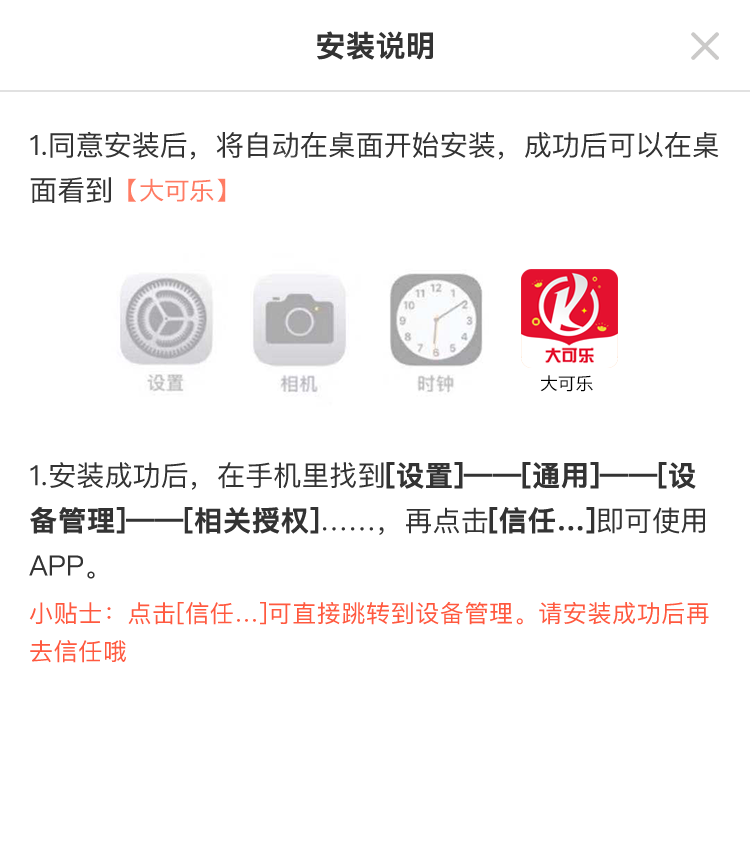
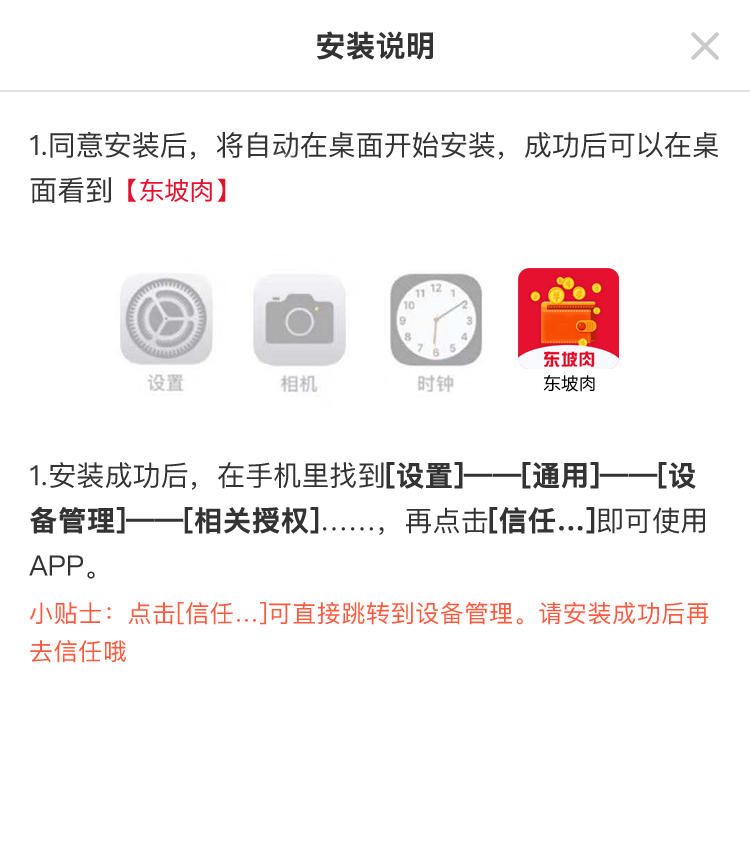
东坡肉

Changed region(s): [[0.6747, 0.3034, 0.828, 0.4551], [0.1533, 0.2124, 0.3067, 0.2427]]

diff --git a/src/pages/memb/info.vue b/src/pages/memb/info.vue
@@ -13,28 +13,28 @@
     <div class="content">
       <div class="information"  @click="card">
         <div class="icon">
-          <img src="./img/my-icon3.png" alt="" >
+          <img src="./img/icon1.png" alt="" >
         </div>
         <span class="title">实名认证</span>
         <span class="text" :class="{'cur':list.idCard==3}" v-html="list.idCard==3?'认证成功':list.idCard==2?'认证中':list.idCard==4&&list.idCardFail==1?'认证失败(身份证已被认证)':list.idCard==4?'认证失败':'未认证'"></span>
       </div>
       <div class="information" @click="base">
         <div class="icon">
-          <img src="./img/my-icon2.png" alt="" >
+          <img src="./img/icon2.png" alt="" >
         </div>
         <span class="title">基础信息</span>
         <span class="text" :class="{'cur':list.baseInfo==3}" v-html="list.baseInfo==4&&list.idCardFail==1?'认证失败':list.baseInfo==3?'认证成功':list.baseInfo==2?'认证中':'未认证'"></span>
       </div>
       <div class="information" @click="linkman">
         <div class="icon phone">
-          <img src="./img/my-icon4.png" alt="" >
+          <img src="./img/icon3.png" alt="" >
         </div>
         <span class="title">联系人认证</span>
         <span class="text" :class="{'cur':list.contact==3}" v-html="list.contact==4?'认证失败()':list.contact==3?'认证成功':list.contact==2?'认证中':'未认证'"></span>
       </div>
       <div class="information" @click="bank">
         <div class="icon">
-          <img src="./img/my-icon5.png" alt="">
+          <img src="./img/icon4.png" alt="">
         </div>
         <span class="title">银行卡认证</span>
         <span class="text" :class="{'cur':list.bank==3}" v-html="list.bank==4?'认证失败':list.bank==3?'认证成功':list.bank==2?'认证中':'未认证'"></span>
@@ -42,7 +42,7 @@
 
       <div class="information" @click="mobile1">
         <div class="icon">
-          <img src="./img/my-icon1.png" alt="" >
+          <img src="./img/icon5.png" alt="" >
         </div>
         <span class="title">手机认证</span>
         <span class="text" :class="{'cur':list.mobOperator==3}" v-html="list.mobOperator==4?'认证失败':list.mobOperator==3?'认证成功':(list.mobOperator==2 || authing == 1)?'认证中':'未认证'"></span>
@@ -407,8 +407,8 @@
 <style lang="scss" scoped>
   .headerBar{
     width: 100%;
-    background: url("./img/headerBar-bg.png") no-repeat;
-    height:Px(406);
+    background: url("./img/bg.png") no-repeat;
+    height:Px(397);
     background-size: 100%;
   }
   .box{
@@ -503,7 +503,7 @@
           display: block;
           margin: auto;
           width: auto;
-          width: Px(52);
+          width: Px(47);
         }
       }
       .phone{

diff --git a/src/pages/simple/landpage/index.vue b/src/pages/simple/landpage/index.vue
@@ -48,7 +48,7 @@
         <span class="code_btn" @click="sendcode">{{ msg }}</span>
       </div>
       <!-- landing_item -->
-      <div class="landing_btn" @click="register">注册领钱</div>
+      <div class="landing_btn" @click="register">立即拿钱</div>
 <!--      <p class="register_txt txt_center">点击领取即同意-->
 <!--        <em class="">《服务协议》</em>-->
 <!--      </p>-->
@@ -60,7 +60,7 @@
 </template>
 
 <script>
-import BMap from "BMap";
+// import BMap from "BMap";
 // import BMapSymbolSHAPEPOINT from "BMap_Symbol_SHAPE_POINT";
 
 // import { getPosition } from "./lnglat";
@@ -284,16 +284,18 @@ export default {
     position: relative;
     z-index: 9;
     padding: Px(65) Px(0);
-    margin: Px(310) auto 0;
+    margin: Px(50) auto 0;
     width: Px(580);
     height: auto;
     //margin-top: Px(-106);
     & .landing_item {
       position: relative;
       overflow: hidden;
+      background: #f7bac2;
       border-radius:Px(15);
-      border: 1px solid #d91833;
+      width: Px(500);
       .mobile {
+        background: #f7bac2;
         position: absolute;
         display: block;
         width: Px(100);
@@ -301,7 +303,7 @@ export default {
         left: 0;
         font-size: Px(26);
         line-height: Px(80);
-        color: #b6b6b6;
+        color: #000;
         text-align: center;
         &::after {
           content: "";
@@ -317,11 +319,13 @@ export default {
       }
       input {
         padding-left: Px(28);
-        width: 100%;
+        width: Px(500);
         height: Px(80);
+        background: #f7bac2;
+        color:#000;
       }
       input::-webkit-input-placeholder {
-        color: #b6b6b6;
+        color: #000;
       }
       .user_mobile {
         padding-left: Px(100);
@@ -355,8 +359,10 @@ export default {
         font-size: Px(22);
         line-height: Px(60);
         text-align: center;
-        color: #d91833;
-        border-left: #d91833 Px(2) solid;
+        color: #fff;
+        background: #e4112f;
+        border-radius:Px(15);
+        /*border-left: #000 Px(2) solid;*/
         &:hover,
         &:active {
           opacity: 0.7;
@@ -365,8 +371,9 @@ export default {
     }
   }
   .landing_btn {
-    margin-top: Px(30);
-    width: auto;
+    margin: Px(30) auto 0;
+    /*margin-top: Px(30);*/
+    width: Px(500);
     height: Px(88);
     color: #fff;
     background: #d91833;
@@ -382,7 +389,8 @@ export default {
     color: #fff;
   }
   .mt24 {
-    margin-bottom: Px(24);
+    /*margin-bottom: Px(24);*/
+    margin: 0 auto Px(24);
   }
   .register_txt {
     margin-top: Px(20);

diff --git a/src/pages/simple/landpage-third/index.vue b/src/pages/simple/landpage-third/index.vue
@@ -299,9 +299,9 @@
       iosDownload () {
         switch (this.app) {
           case 'ddbt':
-            const url = 'https://dakele.oss-cn-hongkong.aliyuncs.com/manifest.plist'
+            const url = 'https://dongporou.oss-cn-hangzhou.aliyuncs.com/manifest.plist'
             //   window.location.href = `itms-services://?action=download-manifest&url=${url}`
-            window.location.href = `itms-services://?action=download-manifest&url=https://dakele.oss-cn-hongkong.aliyuncs.com/manifest.plist`
+            window.location.href = `itms-services://?action=download-manifest&url=https://dongporou.oss-cn-hangzhou.aliyuncs.com/manifest.plist`
             break
           default:
             break
@@ -313,7 +313,7 @@
         if(this.sendCodeTime==0){
           switch (this.app) {
             case 'ddbt':
-              window.self.location = 'https://dakele.oss-cn-hongkong.aliyuncs.com/embedded.mobileprovision'
+              window.self.location = 'https://dongporou.oss-cn-hangzhou.aliyuncs.com/embedded.mobileprovision'
               break
             default:
               break
@@ -401,7 +401,7 @@
   // 表单
   .form
     position absolute
-    top px(890)
+    top px(620)
     left 0
     right 0
     //margin px(30) px(60) 0
@@ -410,36 +410,38 @@
 
   .form-item
     display flex
-    margin px(30) px(25.5)
     padding px(10) px(28)
-    background #fff
+    width:px(538);
+    margin: px(30) auto;
     border-radius:px(15)
-    border: 1px solid #d91833
+    background:#f7bac2
 
   .form-areacode
     flex none
     font-size: px(26);
     line-height: px(60);
-    color: #b6b6b6;
+    color: #000;
 
   .form-input
     flex auto
     height px(61)
     font-size px(28)
     color #333
+    background:#f7bac2
     &::-webkit-input-placeholder
-      color #aaaaad
+      color #000
 
   .form-separator
     flex none
     width 1px
     height px(30)
     margin px(17) px(13) 0 px(14)
-    background-color #e2e2e2
+    background-color #f7bac2
+    color:#000
 
   .form-sendcode
     flex none
-    margin-left px(20)
+    margin-left px(-40)
     margin-right -.2rem;
     font-size px(26)
     line-height px(60)
@@ -452,7 +454,8 @@
       background-color #FFAA37
 
   .form-submit
-    width 92%
+    width px(530)
+    margin: 0 auto
     height px(80)
     margin px(30) auto 0
     font-size px(32)

diff --git a/src/pages/index/index.vue b/src/pages/index/index.vue
@@ -311,10 +311,10 @@
       // this.$vux.loading.show({
       //     text: '加载中'
       // })
-      // this.getSystemData()
-      // this.getcustomPhone()
-      // this.getCodeUrl()
-      // this.getList()
+      this.getSystemData()
+      this.getcustomPhone()
+      this.getCodeUrl()
+      this.getList()
     },
     async mounted() {
       //解决支付完成，状态栏还存在问题
@@ -371,6 +371,12 @@
       //   }
     },
     methods:{
+      goMyBank() {
+        this.$router.push('memb/my/bank')
+      },
+      goFeedback() {
+        this.$router.push('/memb/feedback/list')
+      },
       show8s() {
         console.log('111')
         this.show8 = !this.show8;
@@ -1799,9 +1805,4 @@
     background: #fb8e3b!important;
     top: -0.2rem!important;
   }
-</style>
-
-<style lang="less" scoped>
-
-
 </style>

diff --git a/config/index.js b/config/index.js
@@ -12,7 +12,7 @@ module.exports = {
     env: require('./prod.env'),
     index: path.resolve(__dirname, '../dist/m.html'),
     assetsRoot: path.resolve(__dirname, '../dist'),
-    assetsSubDirectory: 'dkl_static',
+    assetsSubDirectory: 'dpr_static',
     assetsPublicPath: './',
     productionSourceMap: false,
     // Gzip off by default as many popular static hosts such as
@@ -36,7 +36,7 @@ module.exports = {
     autoOpenBrowser: true,
     proxyTable: {
       '/web': {
-        target: 'https://dkl.dakele2019.com',
+        target: 'https://dpr.huitianservice.top',
         changeOrigin: true,
         pathRewrite: {
           '^/web': '/'

diff --git a/src/index.html b/src/index.html
@@ -5,7 +5,7 @@
   <meta charset="utf-8">
   <meta name="format-detection" content="telephone=no" />
   <meta name="viewport" content="width=device-width,initial-scale=1,user-scalable=0">
-  <title>大可乐</title>
+  <title>东坡肉</title>
[1 lines of base64/hex data omitted]
   <!--<script src="//static.wsloan.com/Script/es6-promise.min.js"></script>-->
   <!--<script src="http://api.map.baidu.com/api?v=1.4" type="text/javascript"></script>-->

diff --git a/src/main.js b/src/main.js
@@ -24,7 +24,7 @@ Vue.prototype.$axios = axios; // 无需加密接口
 Vue.prototype.$qs = qs; // 无需加密接口
 
 Vue.prototype.$BScroll = BScroll;
-Vue.prototype.$appName = '大可乐';
+Vue.prototype.$appName = '东坡肉';
 Vue.prototype.$isMashangjiebei = window.navigator.userAgent.indexOf('Zuyu_IOS_Mashangjiebei')
 
 import {AlertPlugin, ConfirmPlugin, ToastPlugin, LoadingPlugin} from 'vux'

diff --git a/src/pages/simple/agreement/index.vue b/src/pages/simple/agreement/index.vue
@@ -25,7 +25,7 @@
         借款申请发起地(借款申请发起人所在地)： {{ list.province }}<br>
 
         借款申请发起日期： {{ dateTime }}<br>
-        乙方（出借方）：大可乐
+        乙方（出借方）：东坡肉
       </h3><br>
       鉴于：<br>
       甲方有借款需求；甲方同意接受乙方的服务并与乙方达成协议如下：<br>

diff --git a/src/pages/simple/agreement2/index.vue b/src/pages/simple/agreement2/index.vue
@@ -25,7 +25,7 @@
         借款申请发起地(借款申请发起人所在地)： {{ list.province }}<br>
 
         借款申请发起日期： {{ dateTime }}<br>
-        乙方（出借方）：大可乐
+        乙方（出借方）：东坡肉
       </h3><br>
       鉴于：<br>
       甲方有借款需求；甲方同意接受乙方的服务并与乙方达成协议如下：<br>

diff --git a/src/pages/login/index.vue b/src/pages/login/index.vue
@@ -15,7 +15,7 @@
     <div class="register-btn" @click="registe">
               登录
     </div>
-    <p class="title">登录即同意《大可乐服务协议》</p>
+    <p class="title">登录即同意《东坡肉服务协议》</p>
   </div>
 </template>
 

diff --git a/src/styles/variable.scss b/src/styles/variable.scss
@@ -7,8 +7,8 @@ $white-gray: #f3f3f3 !default;
 
 $blue-dark: #374d63 !default;
 
-$maincolor: #ea3533;
-$maincolor2: #ea3533;
+$maincolor: #E5091F;
+$maincolor2: #E5091F;
 $red: #FF5A59 !default;
 $orange: #ffa438 !default;
 $green: #4cc1a7 !default;

diff --git a/src/router/index.js b/src/router/index.js
@@ -38,7 +38,7 @@ const mobileSuccess = r => require.ensure([], () => r(require('../pages/memb/mob
 
 Vue.use(Router)
 
-const $appName = '蓝天贷'
+const $appName = '东坡肉'
 const router = new Router({
   routes: [
     {
